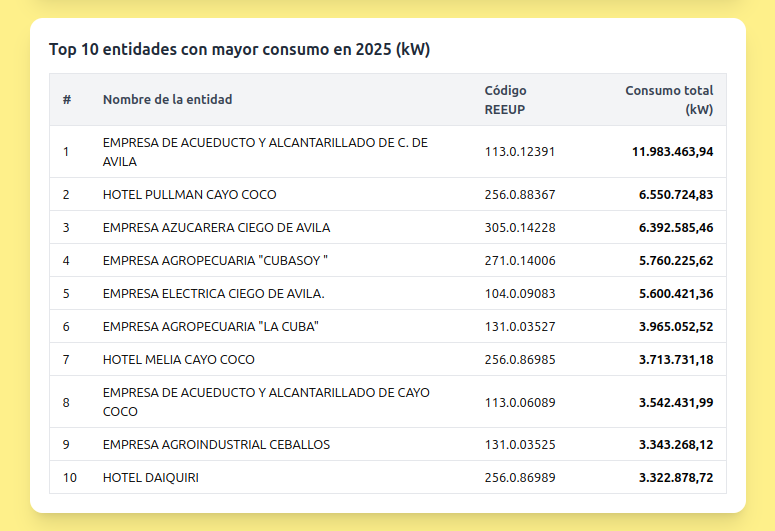
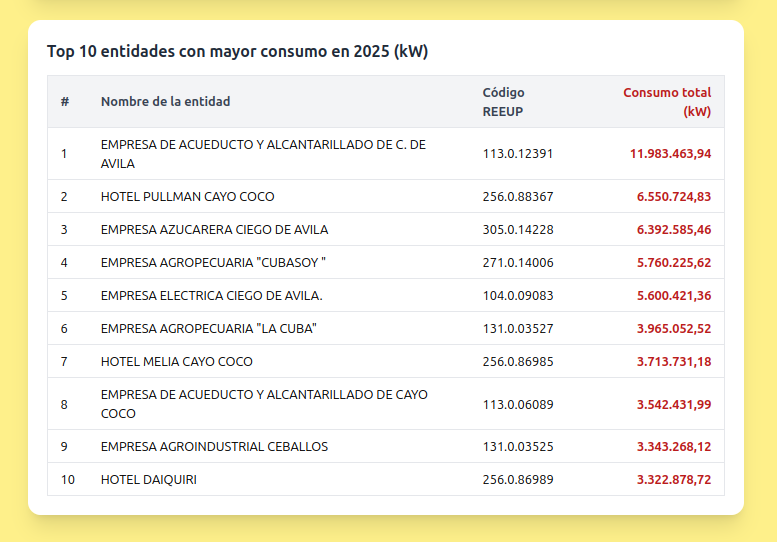
Modificando tabla entidades de mayor consumo

diff --git a/frontend/src/components/TopEntidadesConsumo.jsx b/frontend/src/components/TopEntidadesConsumo.jsx
@@ -30,7 +30,7 @@ export function TopEntidadesConsumo({ año }) {
 
   if (loading) return <div className="text-center py-4">Cargando ranking...</div>;
   if (error) return <div className="text-center py-4 text-red-600">{error}</div>;
-  if (!data.length) return <div className="text-center py-4 text-gray-900">No hay datos para el año {año}.</div>;
+  if (!data.length) return <div className="text-center py-4 text-gray-800">No hay datos para el año {año}.</div>;
 
   return (
     <div className="bg-white rounded-2xl shadow-xl p-6 max-w-4xl mx-auto mt-8">
@@ -44,7 +44,7 @@ export function TopEntidadesConsumo({ año }) {
               <th className="px-4 py-2 text-left text-gray-700">#</th>
               <th className="px-4 py-2 text-left text-gray-700">Nombre de la entidad</th>
               <th className="px-4 py-2 text-left text-gray-700">Código REEUP</th>
-              <th className="px-4 py-2 text-right text-gray-700">Consumo total (kW)</th>
+              <th className="px-4 py-2 text-right text-red-700">Consumo total (kW)</th>
             </tr>
           </thead>
           <tbody>
@@ -53,7 +53,7 @@ export function TopEntidadesConsumo({ año }) {
                 <td className="px-4 py-2">{index + 1}</td>
                 <td className="px-4 py-2">{item.nombre}</td>
                 <td className="px-4 py-2">{item.codigo_reeup}</td>
-                <td className="px-4 py-2 text-right font-semibold">{formatNumber(item.consumo_total)}</td>
+                <td className="px-4 py-2 text-right font-semibold text-red-700">{formatNumber(item.consumo_total)}</td>
               </tr>
             ))}
           </tbody>
